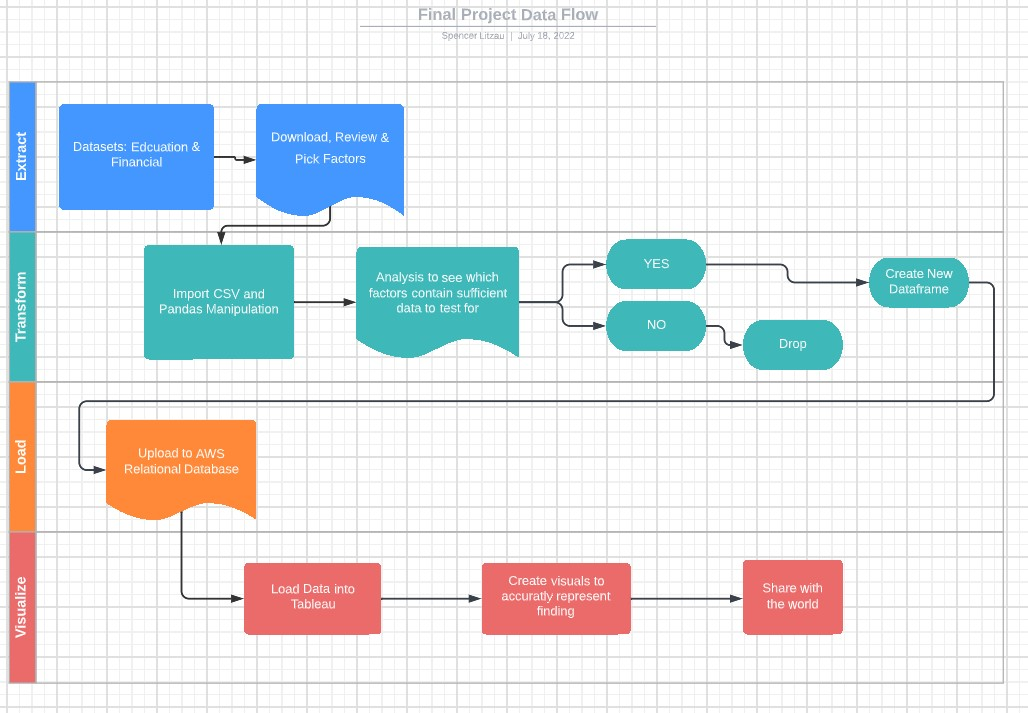
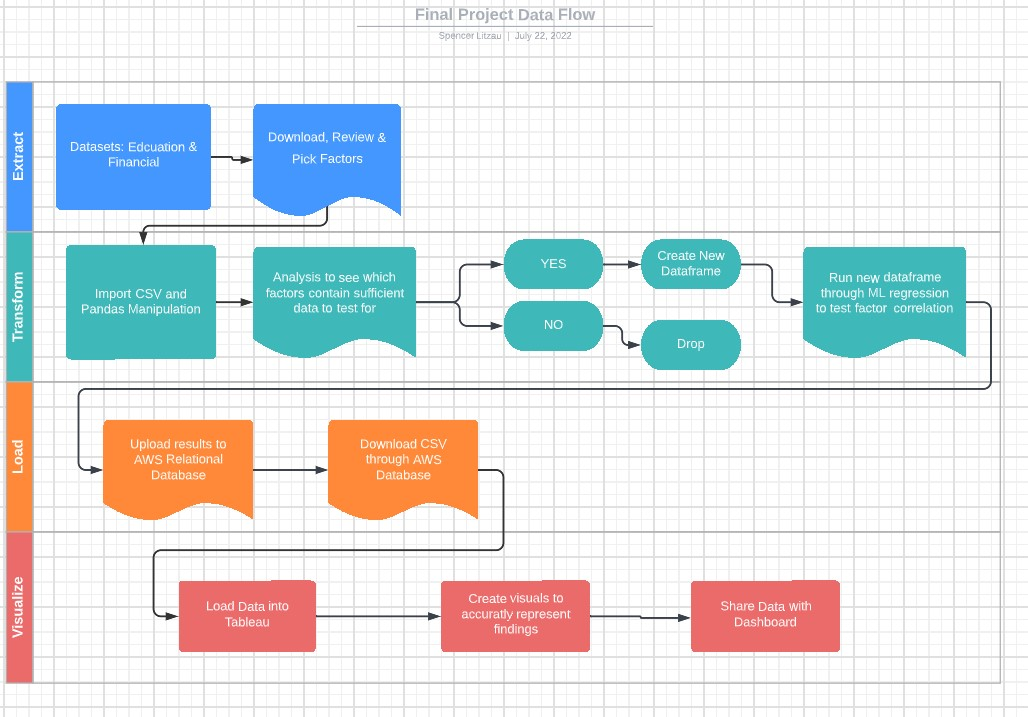
Add files via upload

Changed region(s): [[0.0, 0.0, 1.0, 1.0], [0.0934, 0.0, 0.1556, 0.1543]]

diff --git a/README.md b/README.md
@@ -1,15 +1,27 @@
 # School Performance Metrics
 
-Project Revealing several factors & their impacts and/or correlations with school performance.  
+## Objective
+The purpose of this project was to analyze which factors are most strongly correlated with student performance.  To get into the details here lets define what we consider performance for the students, the group of students analyzed and the data itself.    
+
+In this review performance will simply be how students scored on standardized testing on SAT, Math & ELA performance scores.  
+
+The group of students included in the data from the Illinois State Board of education data as linked to below. 
+
+https://www.isbe.net/pages/illinois-state-report-card-data.aspx
+
+The defintions for each factor tested are listed at the bottom of this page. 
+
+Lastly the machine learning alogrithm testing will be detialed out as follows in this section.  
+
 
 ![FUN AT SCHOOL](https://github.com/smlit30/Project_Test/blob/main/school_art.jpg)
 
-# Group Workflow
+## Group Workflow
 
 ![FUN AT SCHOOL](https://github.com/smlit30/Project_Test/blob/main/Workflow.jpg)
 
 
-# Visuals for this Project
+## Visuals for this Project
 Our first visuals includeda layout of zip codes with their proficiency % of ELA & Math scores.
 https://public.tableau.com/app/profile/spencer.litzau/viz/FP_Zip1_Trial/Sheet1
 
@@ -24,44 +36,70 @@ https://public.tableau.com/app/profile/spencer.litzau/viz/FP_ELA2_Trial/Sheet7
 Lastly we have chronic absenteeism compared to math proficiency scores.  
 https://public.tableau.com/app/profile/spencer.litzau/viz/FP_MP2_Trial/Sheet5
 
-Second Visual includes 
-<details open>
-<summary>Definitions for the factors we tested for.</summary>
-<br/>
-<pre>
-
-## 1: Chronic Abseenteism
-
-Number of students missing XX number of days per school per year.
-
-## 2: Average Teacher Salary
-
-Average salary of teachers in U.S. Dollars.   
-
-
-## 3: Average Teacher Retention Rate
-
-This is a measurement in each district of how many teachers stay from year over year within the district.  This is taken at the school level and averaged out. 
-
-## 4: Average Administrator Salary
-
-Average salary that the administration makes in the district. 
-
-## 5: Disrict Size
-
-The classifications from district range from 
-
-Small District ##'s
-
-Medium District ##'s
-
-Large District ##'s
-</pre>
-</details>
-
 
 ## Results Summary
 
 We found the following results from our regression test on different school factors for performance.  
   
+
+
+<details open>
+<summary>Definitions for the factors we tested for.</summary>
+<br/>
+<pre>
+
+### District General Definitions
+Type - Options "District or School" - Indicates whether the data is at the school or district level. 
+
+District - Name of School District 
+
+City - City of School/District 
+
+County - County of School/District 
+
+District Type - Determines whether the district includes both elementary school and high shool "UNIT" 
+
+District Size - Broken down into small, medium, and large. Determined by the Illinois State Board of Education. 
+
+Avg Class Size – All Grades  - is the average number of students in each class in a school as of the last day of school.
+
+Student Enrollment - Total students enrolled in that district. 
+
+Student Enrollment - Low Income % - Percent of enrolled students who who receive or live in households that receive Supplemental Nutrition Assistance Program or Temporary Assistance to Needy Families benefits; are classified as homeless, migrant,runaway, Head Start, or foster children; or live in a household where the household income meets the U.S.Department of Agriculture income guidelines to receive free or reduced-price meals.
+
+
+Avg. Class Size - All grades. The total number of students enrolled divided by the number of classes. 
+
+Avg Teaching Exp - the sum of teaching years for all full-time classroom teachers divided by the number of teachers. 
+
+Bachelor Degree - The percentage of all full-time classroom teachers who have a Bachelor's Degree. 
+
+Masters Degree - The percentage of all full-time classroom teachers who have a Masters Degree. 
+
+Teacher Retention Rate - The three-year average of the percentage of full-time teachers returning to the same school from the previous year. 
+
+Avg. Teacher Salary - the sum of the salaries for all classroom teachers, divided by the number of full-time equivalent classroom teachers.
+
+Avg. Admin Salary -  the sum of the salaries for all school administration, divided by the number of school administration.
+
+### School Factor Definitions
+
+District Type - Determines whether the district includes both elementary school and high shool "UNIT" 
+
+District Size - Broken down into small, medium, and large. Determined by the Illinois State Board of Education. 
+
+Student Enrollment - Total	- Total enrollment for the school. 
+
+Student Enrollment - Low Income % - Percent of enrolled students who who receive or live in households that receive Supplemental Nutrition Assistance Program or Temporary Assistance to Needy Families benefits; are classified as homeless, migrant,runaway, Head Start, or foster children; or live in a household where the household income meets the U.S.Department of Agriculture income guidelines to receive free or reduced-price meals.
+
+Class Size - All grades. The total number of students enrolled divided by the number of classes. 
+
+Teacher Retention Rate - The three-year average of the percentage of full-time teachers returning to the same school from the previous year. 
+
+
+
+</pre>
+</details>
+
+
 
